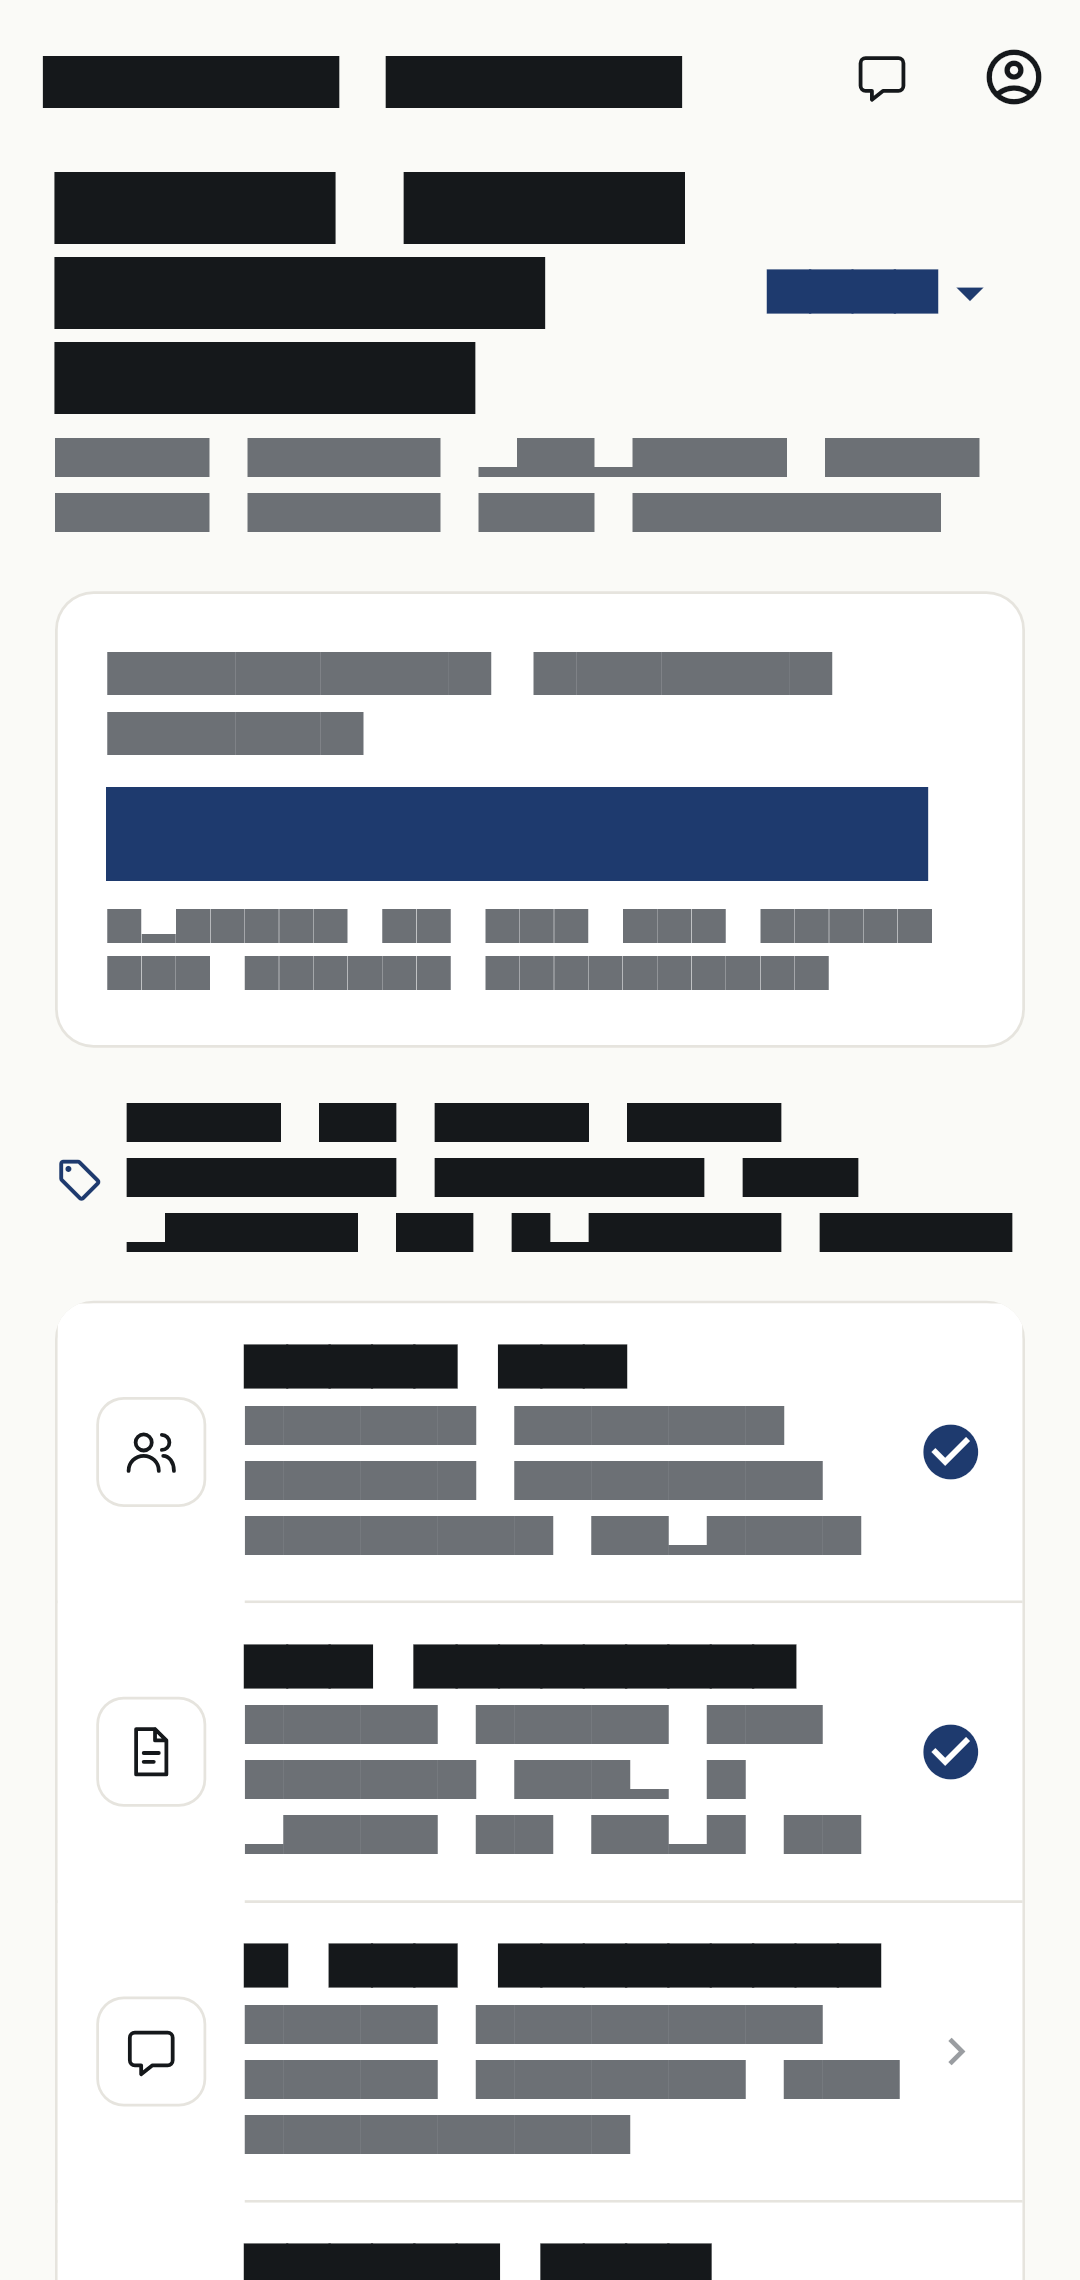
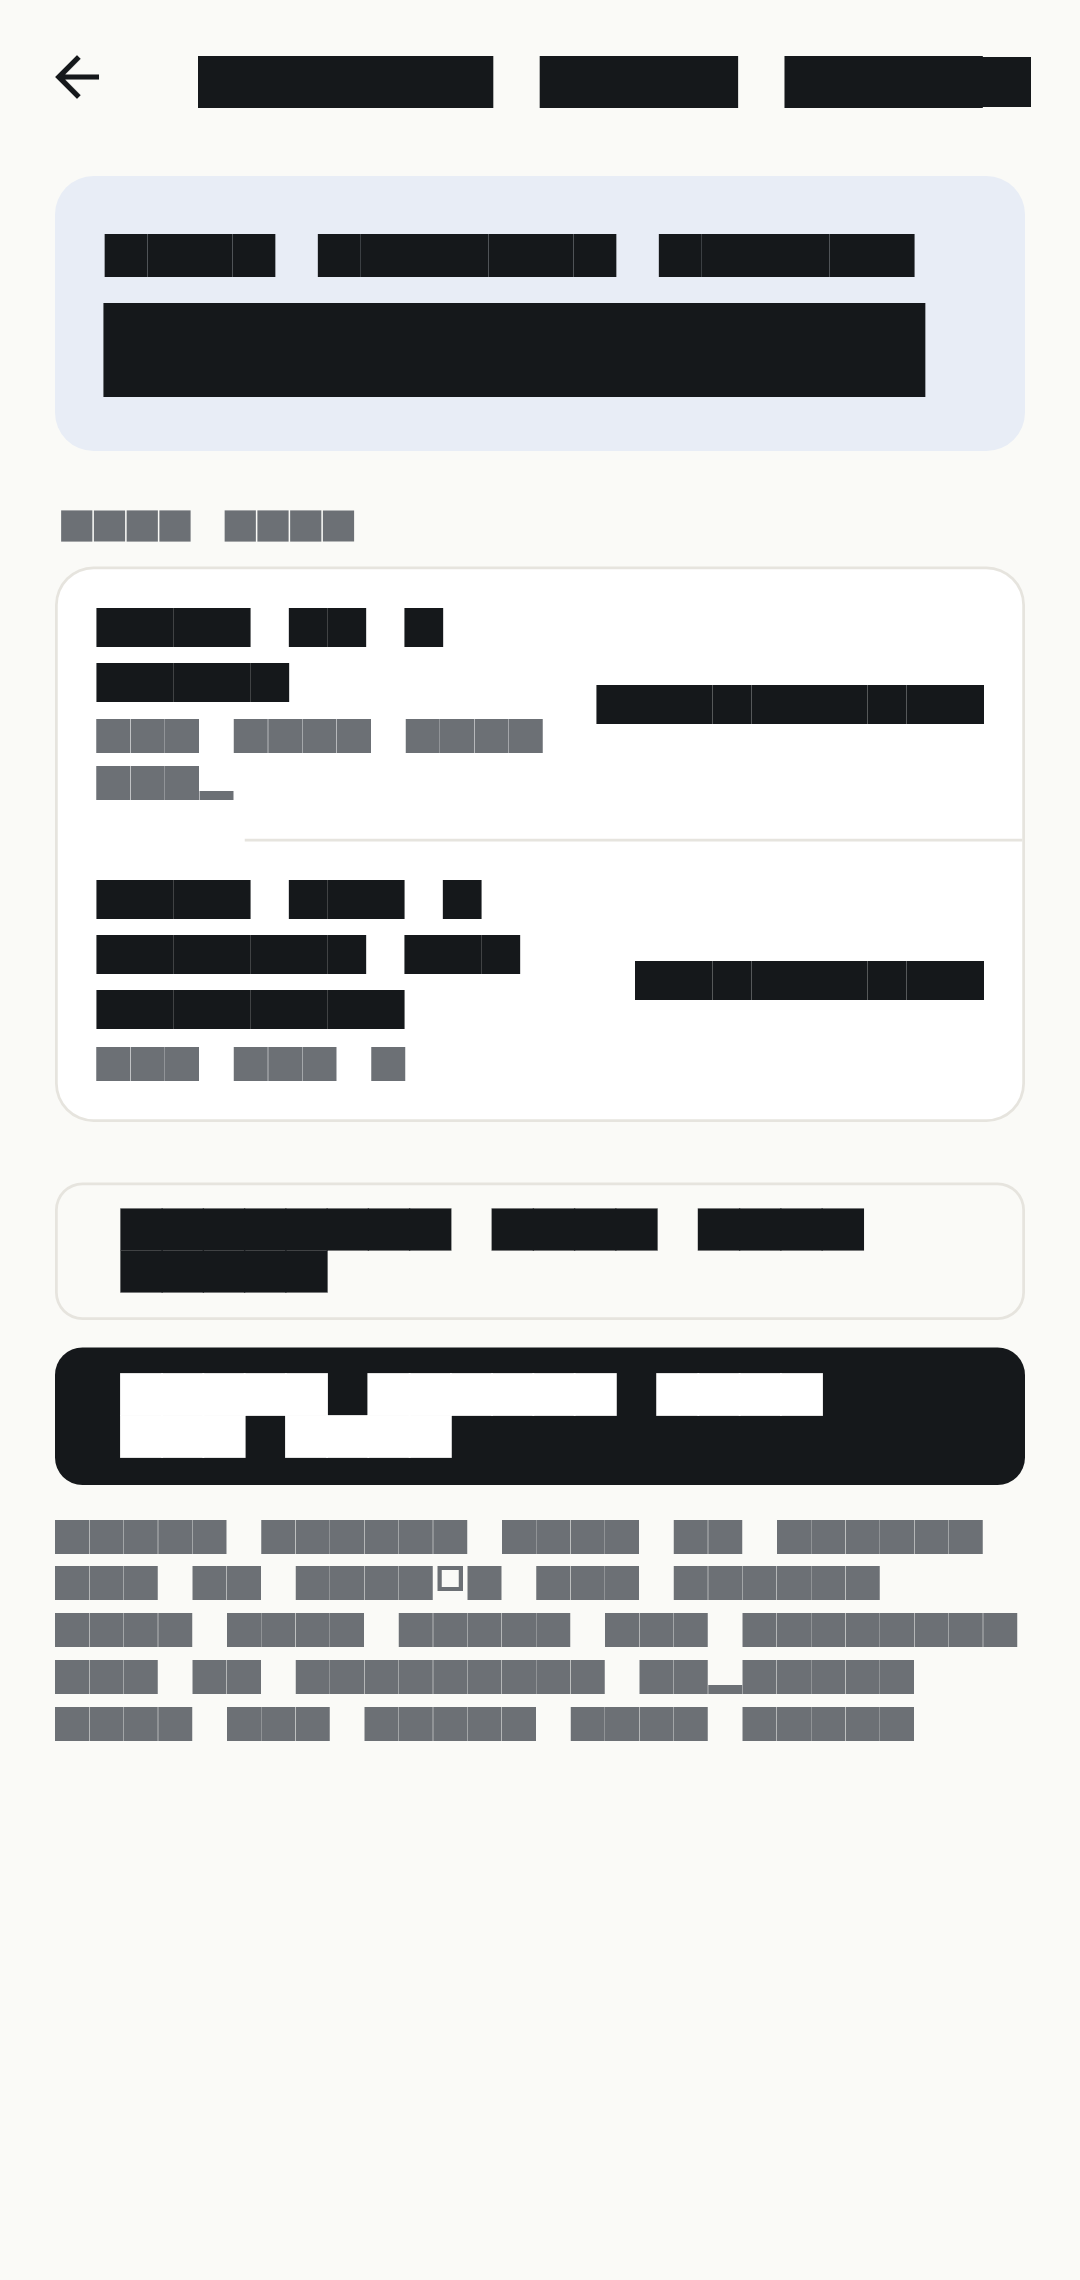
US screenshot tool: scroll each hub step into view before opening it
After the develop merge the hub is taller, so Review and Sign sat below
the fold and the tool's taps missed. It now scrolls each step into view,
goes back through the navigator instead of the protected handlePopRoute,
and the Review and Sign screenshots are of those screens again.

Tests: flutter analyze clean; US screenshot tool passes with no missed
taps.

Claude-Session: https://claude.ai/code/session_0174TLetaQdj8mae1wPsVW7h

diff --git a/mobile/tool/us_screenshots_test.dart b/mobile/tool/us_screenshots_test.dart
@@ -41,25 +41,35 @@ void main() {
     ]);
     await tester.pumpWidget(MycaApp(key: UniqueKey(), state: usState(api)));
     await shot(tester, 'us_02_hub');
+    await tester.ensureVisible(find.byKey(const Key('usHub.step.profile')));
+    await tester.pumpAndSettle();
     await tester.tap(find.byKey(const Key('usHub.step.profile')));
     await shot(tester, 'us_03_about_you');
-    await tester.binding.handlePopRoute();
+    tester.state<NavigatorState>(find.byType(Navigator).first).pop();
+    await tester.pumpAndSettle();
+    await tester.ensureVisible(find.byKey(const Key('usHub.step.forms')));
     await tester.pumpAndSettle();
     await tester.tap(find.byKey(const Key('usHub.step.forms')));
     await shot(tester, 'us_04_documents');
-    await tester.binding.handlePopRoute();
+    tester.state<NavigatorState>(find.byType(Navigator).first).pop();
+    await tester.pumpAndSettle();
+    await tester.ensureVisible(find.byKey(const Key('usHub.step.interview')));
     await tester.pumpAndSettle();
     await tester.tap(find.byKey(const Key('usHub.step.interview')));
     await shot(tester, 'us_05_question');
-    await tester.binding.handlePopRoute();
+    tester.state<NavigatorState>(find.byType(Navigator).first).pop();
+    await tester.pumpAndSettle();
+    await tester.ensureVisible(find.byKey(const Key('usHub.step.review')));
     await tester.pumpAndSettle();
     await tester.tap(find.byKey(const Key('usHub.step.review')));
     await shot(tester, 'us_06_review');
-    await tester.binding.handlePopRoute();
+    tester.state<NavigatorState>(find.byType(Navigator).first).pop();
+    await tester.pumpAndSettle();
+    await tester.ensureVisible(find.byKey(const Key('usHub.step.sign')));
     await tester.pumpAndSettle();
     await tester.tap(find.byKey(const Key('usHub.step.sign')));
     await shot(tester, 'us_07_sign');
-    await tester.binding.handlePopRoute();
+    tester.state<NavigatorState>(find.byType(Navigator).first).pop();
     await tester.pumpAndSettle();
     api.efile = 'signed';
     tester.state<NavigatorState>(find.byType(Navigator).first).push(MaterialPageRoute<void>(builder: (_) => UsSignScreen(taxYear: currentTaxYear(DateTime.now()), fees: FakeFees(), store: FeeStore())));
